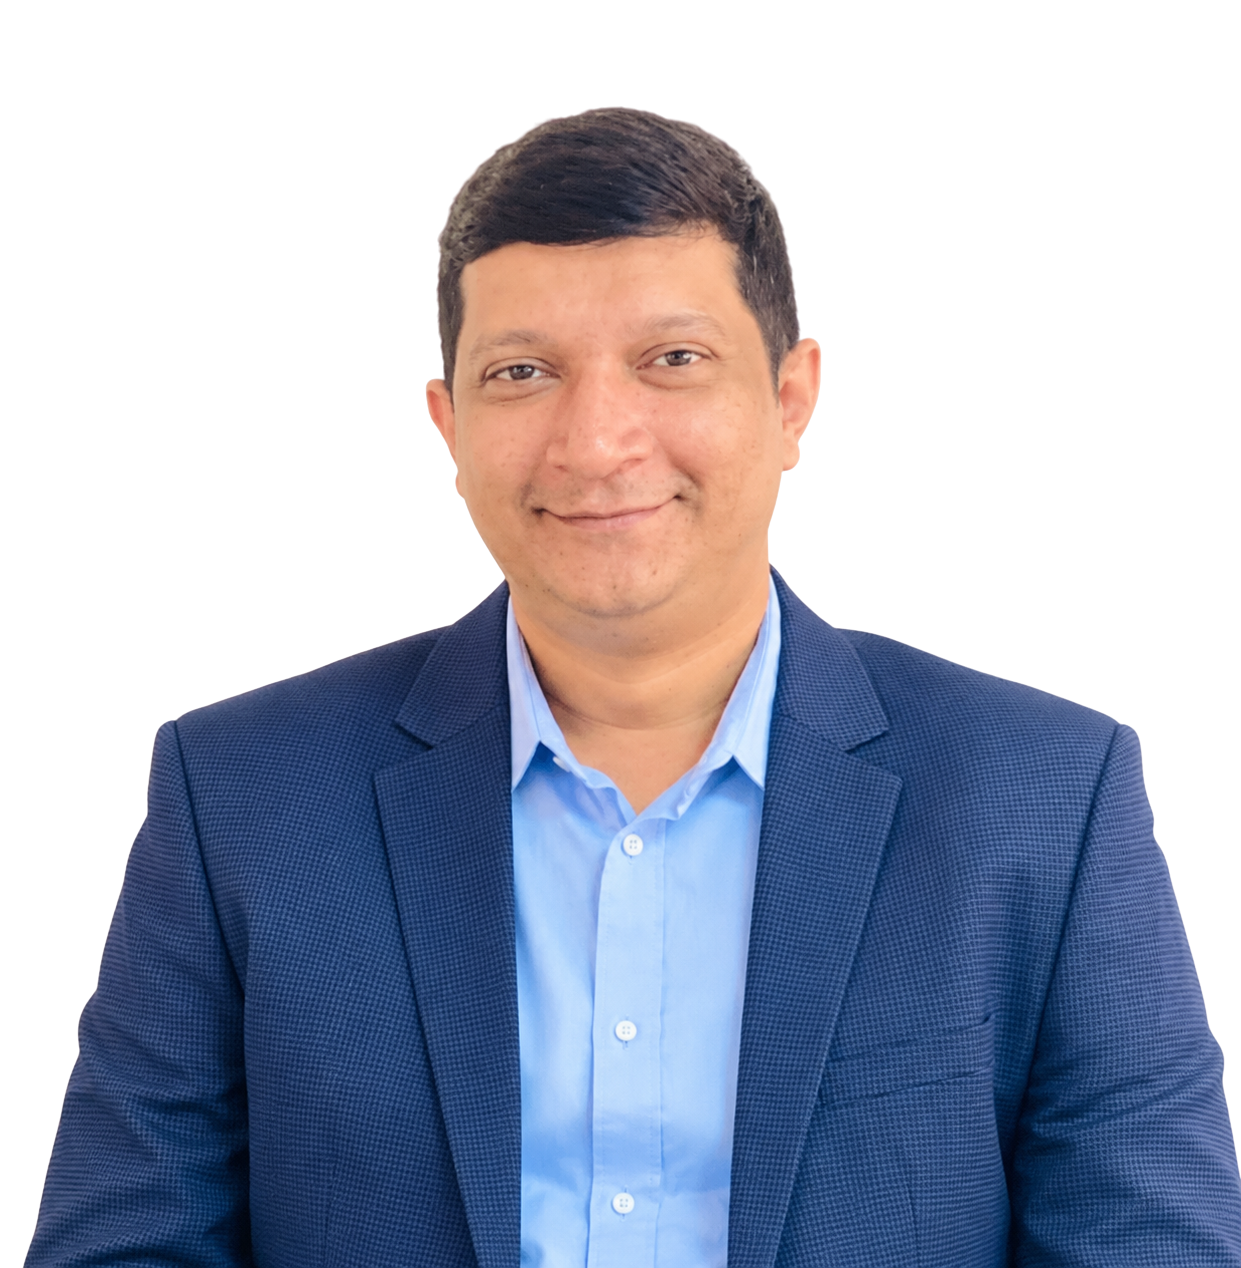
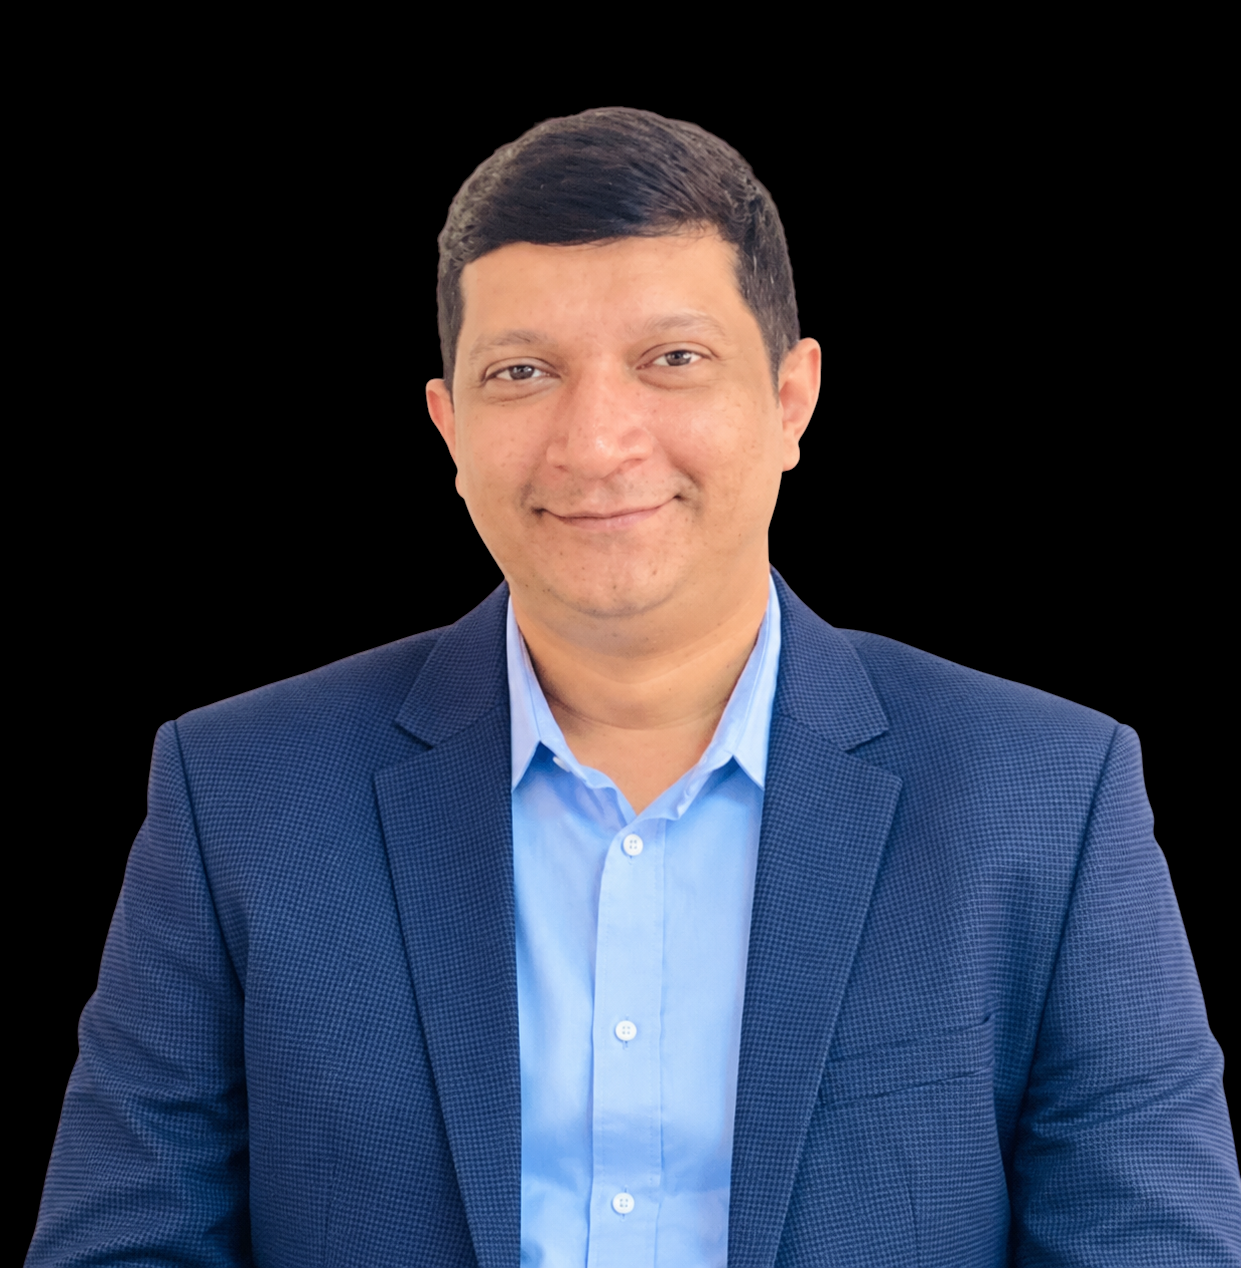
bg fixed for former president

diff --git a/src/components/home/PioneersSection.tsx b/src/components/home/PioneersSection.tsx
@@ -38,24 +38,10 @@ export default function PioneersSection({ locale }: { locale: Locale }) {
   // Next Line: Next Two Leaders
   const secondLineLeaders: PioneerLeader[] = [
     {
-      id: "lutfor",
-      nameBn: "মোঃ লুৎফর রহমান",
-      nameEn: "Md. Lutfor Rahman",
-      roleBn: "প্রাক্তন সভাপতি",
-      roleEn: "Former President",
-      image: "/images/formar_president/lutfor.png",
-      badgeBn: "🕊 শান্তির অগ্রদূত",
-      badgeEn: "🕊 Pioneer of Peace",
-      tributeBn:
-        "শান্তি, শৃঙ্খলা ও সুস্থ ক্রীড়া চর্চার মাধ্যমে এলাকার তরুণদের ভ্রাতৃত্বের বন্ধনে আবদ্ধ করার এক অবিস্মরণীয় কান্ডারী।",
-      tributeEn:
-        "An unforgettable stalwart who united local youth in brotherhood through sportsmanship, discipline, and community peace.",
-    },
-    {
       id: "tk_roman",
-      nameBn: "টি.কে. রোমান",
-      nameEn: "T.K. Roman",
-      roleBn: "প্রাক্তন সভাপতি",
+      nameBn: "তানভীর খোরশেদ রোমান",
+      nameEn: "Tanvir Khorshed Roman",
+      roleBn: "সাবেক সভাপতি",
       roleEn: "Former President",
       image: "/images/formar_president/tk_roman.png",
       badgeBn: "🕊 শান্তির অগ্রদূত",
@@ -65,6 +51,21 @@ export default function PioneersSection({ locale }: { locale: Locale }) {
       tributeEn:
         "A revered pioneer whose inspiring dedication deepened the club's fraternal bond, athletic spirit, and social leadership.",
     },
+    {
+      id: "lutfor",
+      nameBn: "মোঃ লুৎফর রহমান",
+      nameEn: "Md. Lutfor Rahman",
+      roleBn: "সাবেক সভাপতি",
+      roleEn: "Former President",
+      image: "/images/formar_president/lutfor.png",
+      badgeBn: "🕊 শান্তির অগ্রদূত",
+      badgeEn: "🕊 Pioneer of Peace",
+      tributeBn:
+        "শান্তি, শৃঙ্খলা ও সুস্থ ক্রীড়া চর্চার মাধ্যমে এলাকার তরুণদের ভ্রাতৃত্বের বন্ধনে আবদ্ধ করার এক অবিস্মরণীয় কান্ডারী।",
+      tributeEn:
+        "An unforgettable stalwart who united local youth in brotherhood through sportsmanship, discipline, and community peace.",
+    },
+
   ];
 
   return (
@@ -101,15 +102,15 @@ export default function PioneersSection({ locale }: { locale: Locale }) {
 
         {/* TOP LINE: Harun in one line (Centered Featured Card) */}
         <div className="max-w-xl sm:max-w-2xl mx-auto mb-10 relative z-10">
-          <div className="group rounded-3xl bg-white border-2 border-amber-300/60 hover:border-[#006a4e] p-6 sm:p-8 shadow-md hover:shadow-xl transition-all duration-500 flex flex-col sm:flex-row items-center gap-6 sm:gap-8 relative overflow-hidden">
-            {/* Crown corner watermark */}
-            <div className="absolute -top-6 -right-6 text-amber-500/10 text-8xl pointer-events-none select-none font-serif">
+          <div className="group rounded-3xl bg-white border border-brand-200/90 hover:border-[#006a4e] p-6 sm:p-8 shadow-sm hover:shadow-xl transition-all duration-500 flex flex-col sm:flex-row items-center gap-6 sm:gap-8 relative overflow-hidden">
+            {/* Corner Emblem */}
+            <div className="absolute -top-6 -right-6 text-[#006a4e]/10 text-8xl pointer-events-none select-none font-serif">
               👑
             </div>
 
             {/* Photo Column */}
             <div className="relative shrink-0">
-              <div className="relative w-40 h-40 sm:w-48 sm:h-48 rounded-2xl overflow-hidden ring-4 ring-amber-400/30 group-hover:ring-[#006a4e] group-hover:scale-105 transition-all duration-500 shadow-md bg-gradient-to-br from-amber-50 to-brand-100">
+              <div className="relative w-40 h-40 sm:w-48 sm:h-48 rounded-2xl overflow-hidden ring-4 ring-[#006a4e]/20 group-hover:ring-[#006a4e] group-hover:scale-105 transition-all duration-500 shadow-md bg-black">
                 <Image
                   src={topLeader.image}
                   alt={isBn ? topLeader.nameBn : topLeader.nameEn}
@@ -127,7 +128,7 @@ export default function PioneersSection({ locale }: { locale: Locale }) {
 
             {/* Details Column */}
             <div className="text-center sm:text-left flex-1 space-y-2.5">
-              <span className="inline-block text-[11px] font-bold text-amber-700 bg-amber-50 border border-amber-200/80 px-2.5 py-0.5 rounded-full uppercase tracking-wider">
+              <span className="inline-block text-[11px] font-bold text-[#006a4e] bg-brand-50 border border-brand-200/80 px-2.5 py-0.5 rounded-full uppercase tracking-wider">
                 {isBn ? topLeader.badgeBn : topLeader.badgeEn}
               </span>
 
@@ -158,7 +159,7 @@ export default function PioneersSection({ locale }: { locale: Locale }) {
             return (
               <div
                 key={leader.id}
-                className="group rounded-3xl bg-white border border-brand-200/90 hover:border-[#006a4e] p-6 shadow-sm hover:shadow-lg transition-all duration-300 flex flex-col items-center text-center relative overflow-hidden"
+                className="group rounded-3xl bg-white border border-brand-200/90 hover:border-[#006a4e] p-6 shadow-sm hover:shadow-xl transition-all duration-300 flex flex-col items-center text-center relative overflow-hidden"
               >
                 {/* Badge */}
                 <div className="mb-4">
@@ -168,14 +169,13 @@ export default function PioneersSection({ locale }: { locale: Locale }) {
                 </div>
 
                 {/* Photo */}
-                <div className="relative w-36 h-36 sm:w-40 sm:h-40 rounded-2xl overflow-hidden mb-4 ring-4 ring-[#006a4e]/15 group-hover:ring-[#006a4e] group-hover:scale-105 transition-all duration-500 shadow-md bg-gradient-to-br from-brand-50 to-brand-100 shrink-0">
+                <div className="relative w-36 h-36 sm:w-40 sm:h-40 rounded-2xl overflow-hidden mb-4 ring-4 ring-[#006a4e]/20 group-hover:ring-[#006a4e] group-hover:scale-105 transition-all duration-500 shadow-md bg-black shrink-0">
                   <Image
                     src={leader.image}
                     alt={name}
                     fill
                     className="object-cover object-top"
                   />
-                  <div className="absolute inset-0 bg-gradient-to-t from-black/20 via-transparent to-transparent pointer-events-none" />
                 </div>
 
                 {/* Name & Role */}
@@ -201,3 +201,4 @@ export default function PioneersSection({ locale }: { locale: Locale }) {
     </section>
   );
 }
+
